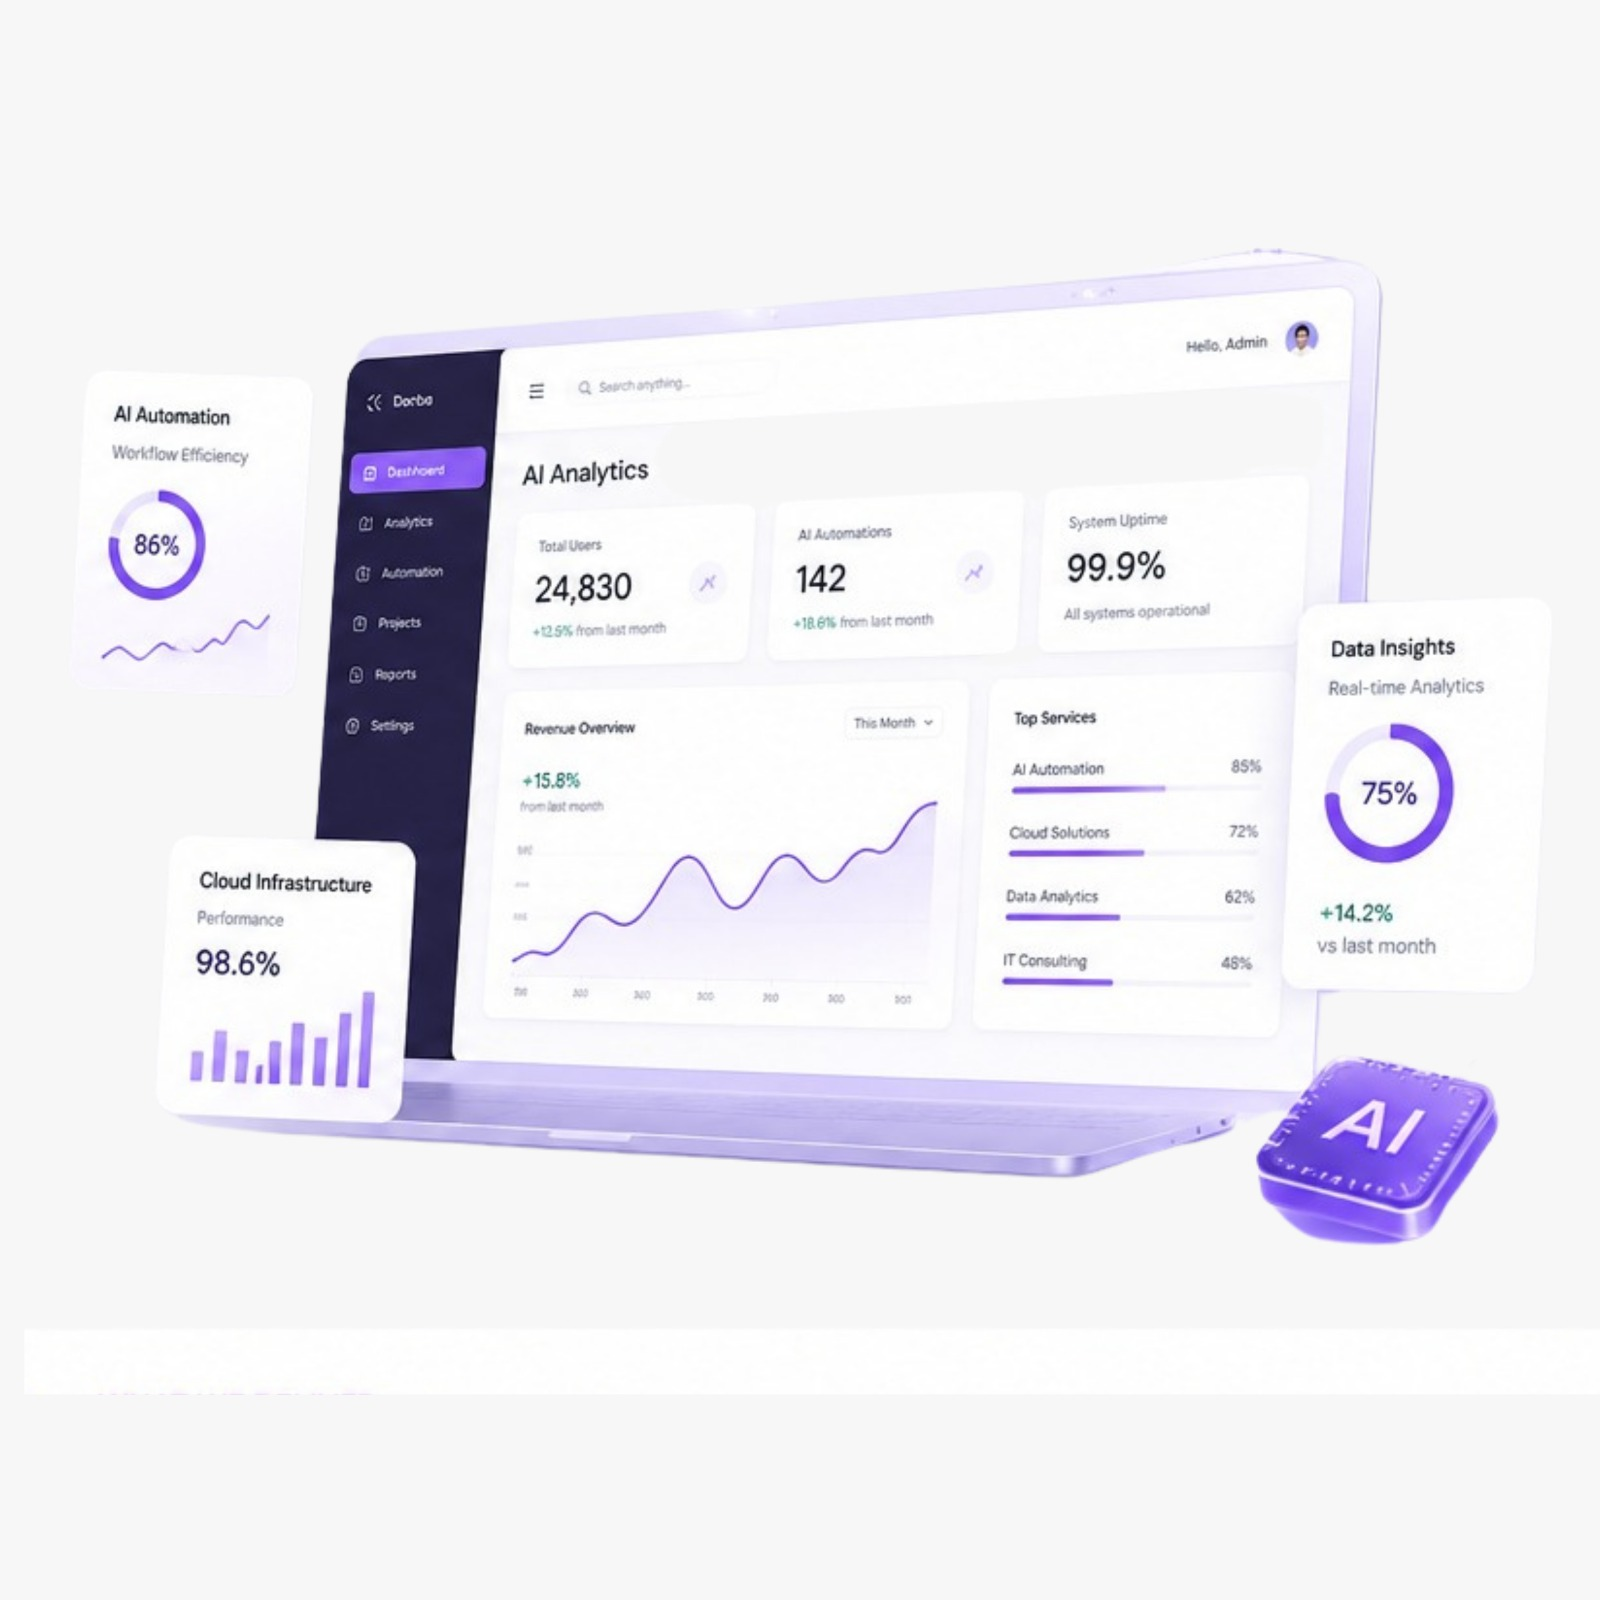
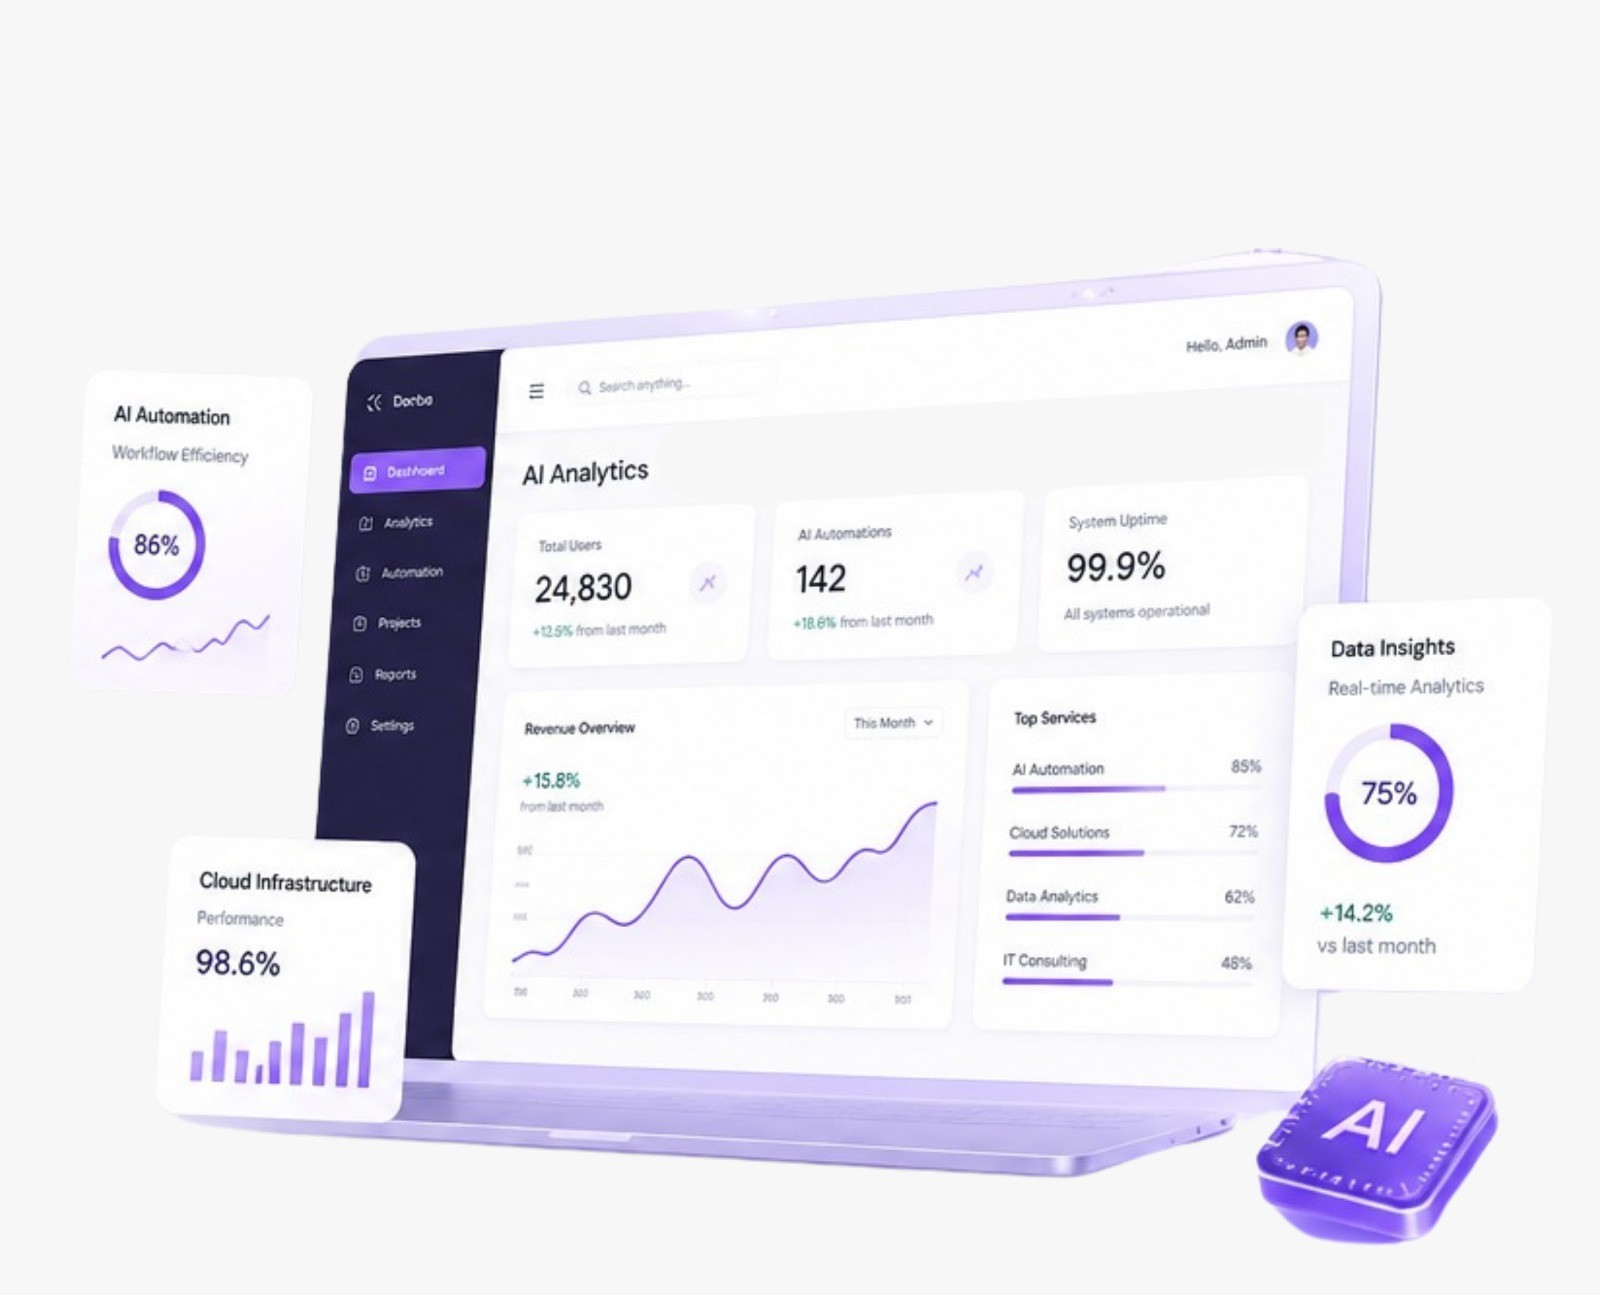
image update

diff --git a/src/components/home/GlobalImpact.tsx b/src/components/home/GlobalImpact.tsx
@@ -48,11 +48,11 @@ const GlobalImpact: React.FC = () => {
 
           <div className="relative mx-auto w-full max-w-[620px] lg:mx-0 lg:ml-auto">
             <div className="pointer-events-none absolute inset-0 bg-[radial-gradient(circle_at_50%_50%,rgba(216,180,254,0.20),transparent_60%)] blur-3xl" />
-            <div className="relative overflow-hidden rounded-[28px] border border-violet-100 bg-white/88 p-3 shadow-[0_18px_50px_rgba(31,41,55,0.08)] backdrop-blur-sm sm:p-4">
+            <div className="relative">
               <img
                 src="/global-impact/transformation.webp"
                 alt="Digital transformation dashboard preview"
-                className="w-full rounded-[22px] object-cover"
+                className="w-full object-cover"
                 loading="lazy"
                 draggable={false}
               />